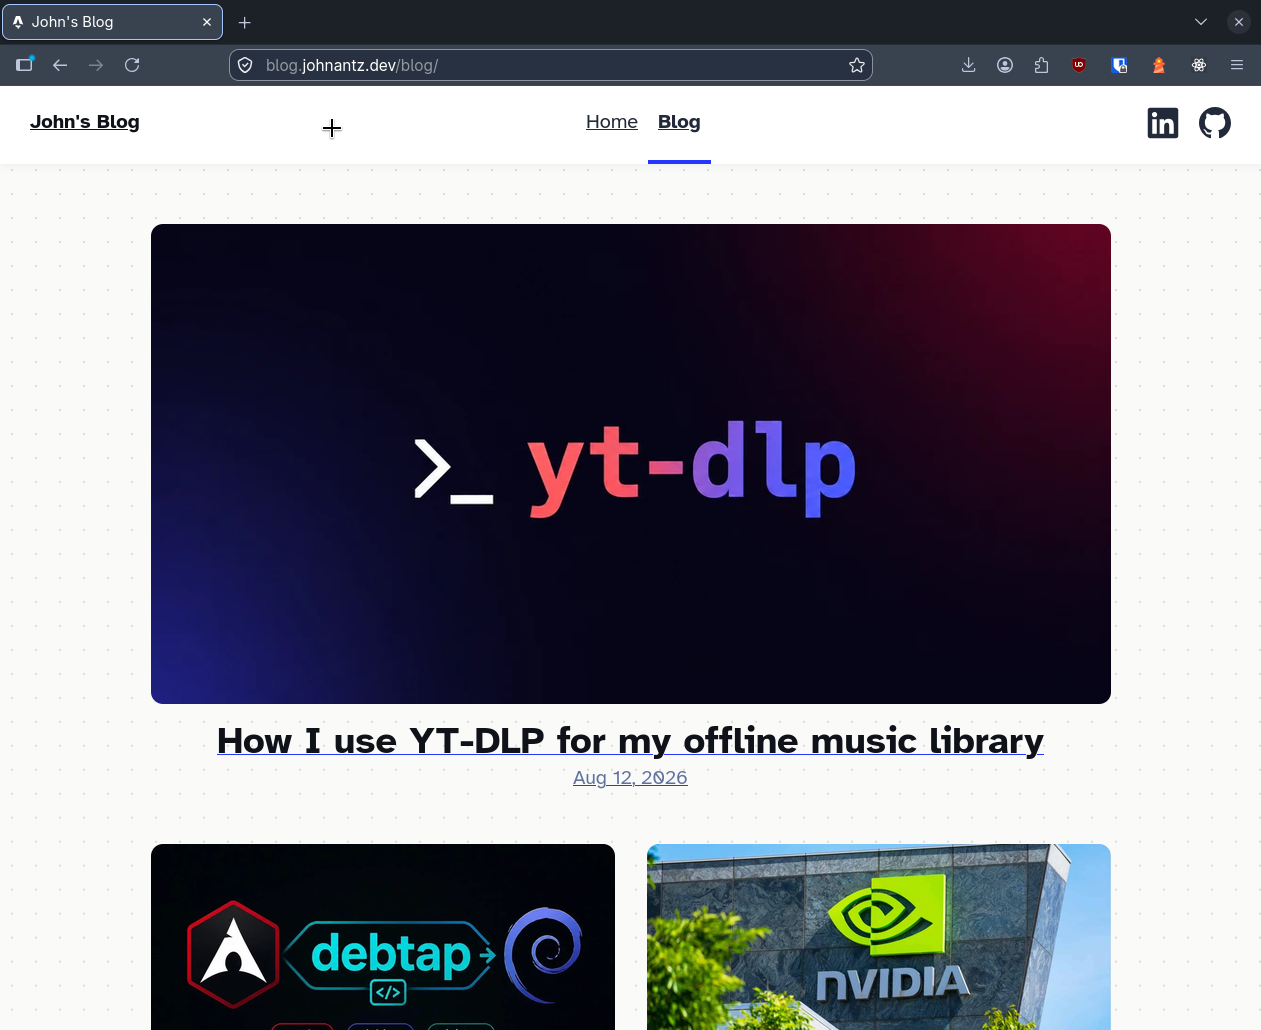
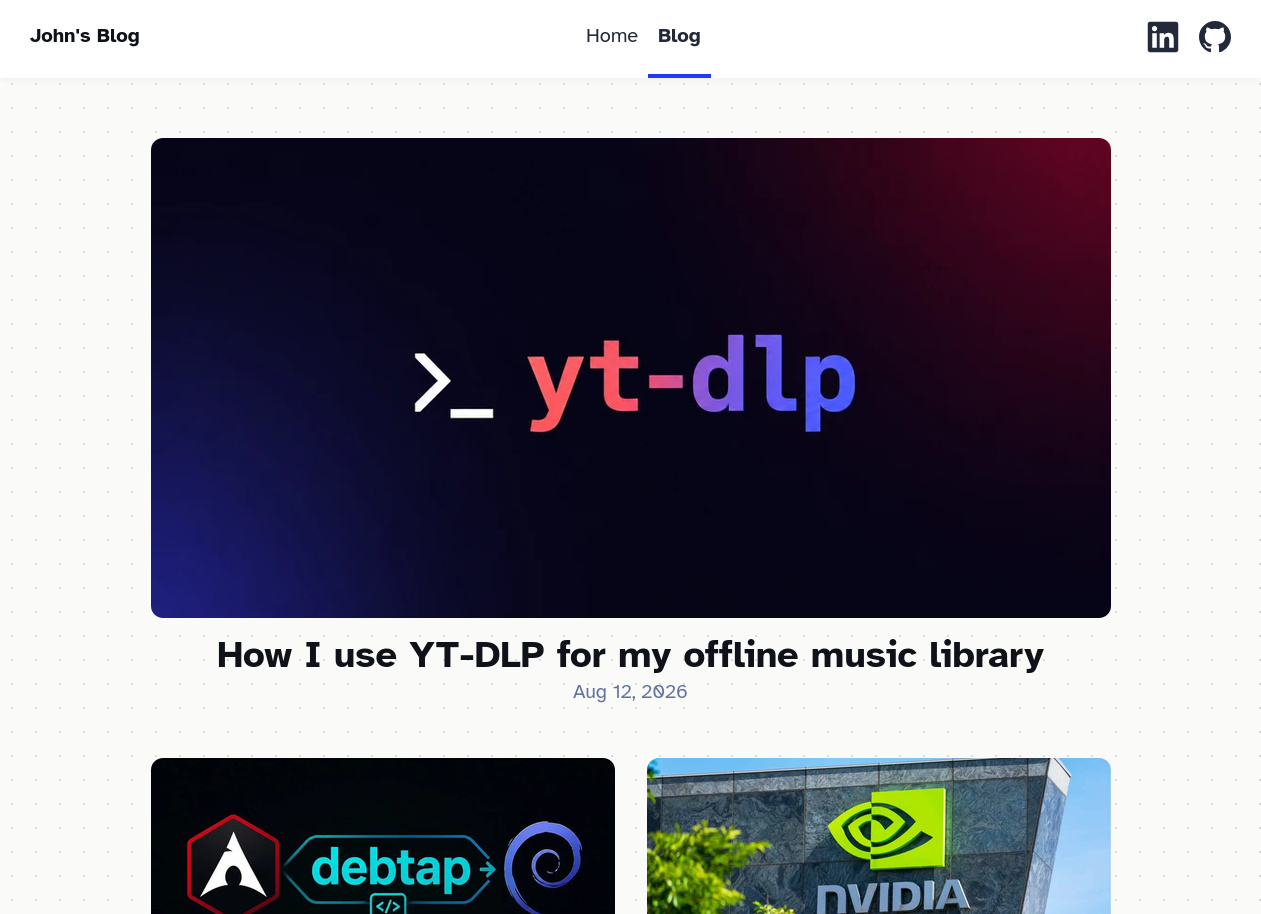
Add tech-stack to each project card

diff --git a/src/content.config.ts b/src/content.config.ts
@@ -12,6 +12,7 @@ const projects = defineCollection({
     description: z.string(),
     img: z.string(),
     link: z.string().url(),
+    technologies: z.array(z.string()).default([]),
   }),
 });
 

diff --git a/src/styles/global.css b/src/styles/global.css
@@ -8,3 +8,7 @@ body {
   font-style: normal;
   font-weight: 400;
 }
+
+a {
+  text-decoration: none;
+}

diff --git a/src/content/projects/description_johnantz_blog.md b/src/content/projects/description_johnantz_blog.md
@@ -3,6 +3,9 @@ title: Personal blog.
 description: Space to share my programming and everyday technology user experience with the world.
 img: "/img/johns-blog.png"
 link: https://blog.johnantz.dev/
+technologies:
+  - astro
+  - npm
 ---
 
 # Description of John's Blog
